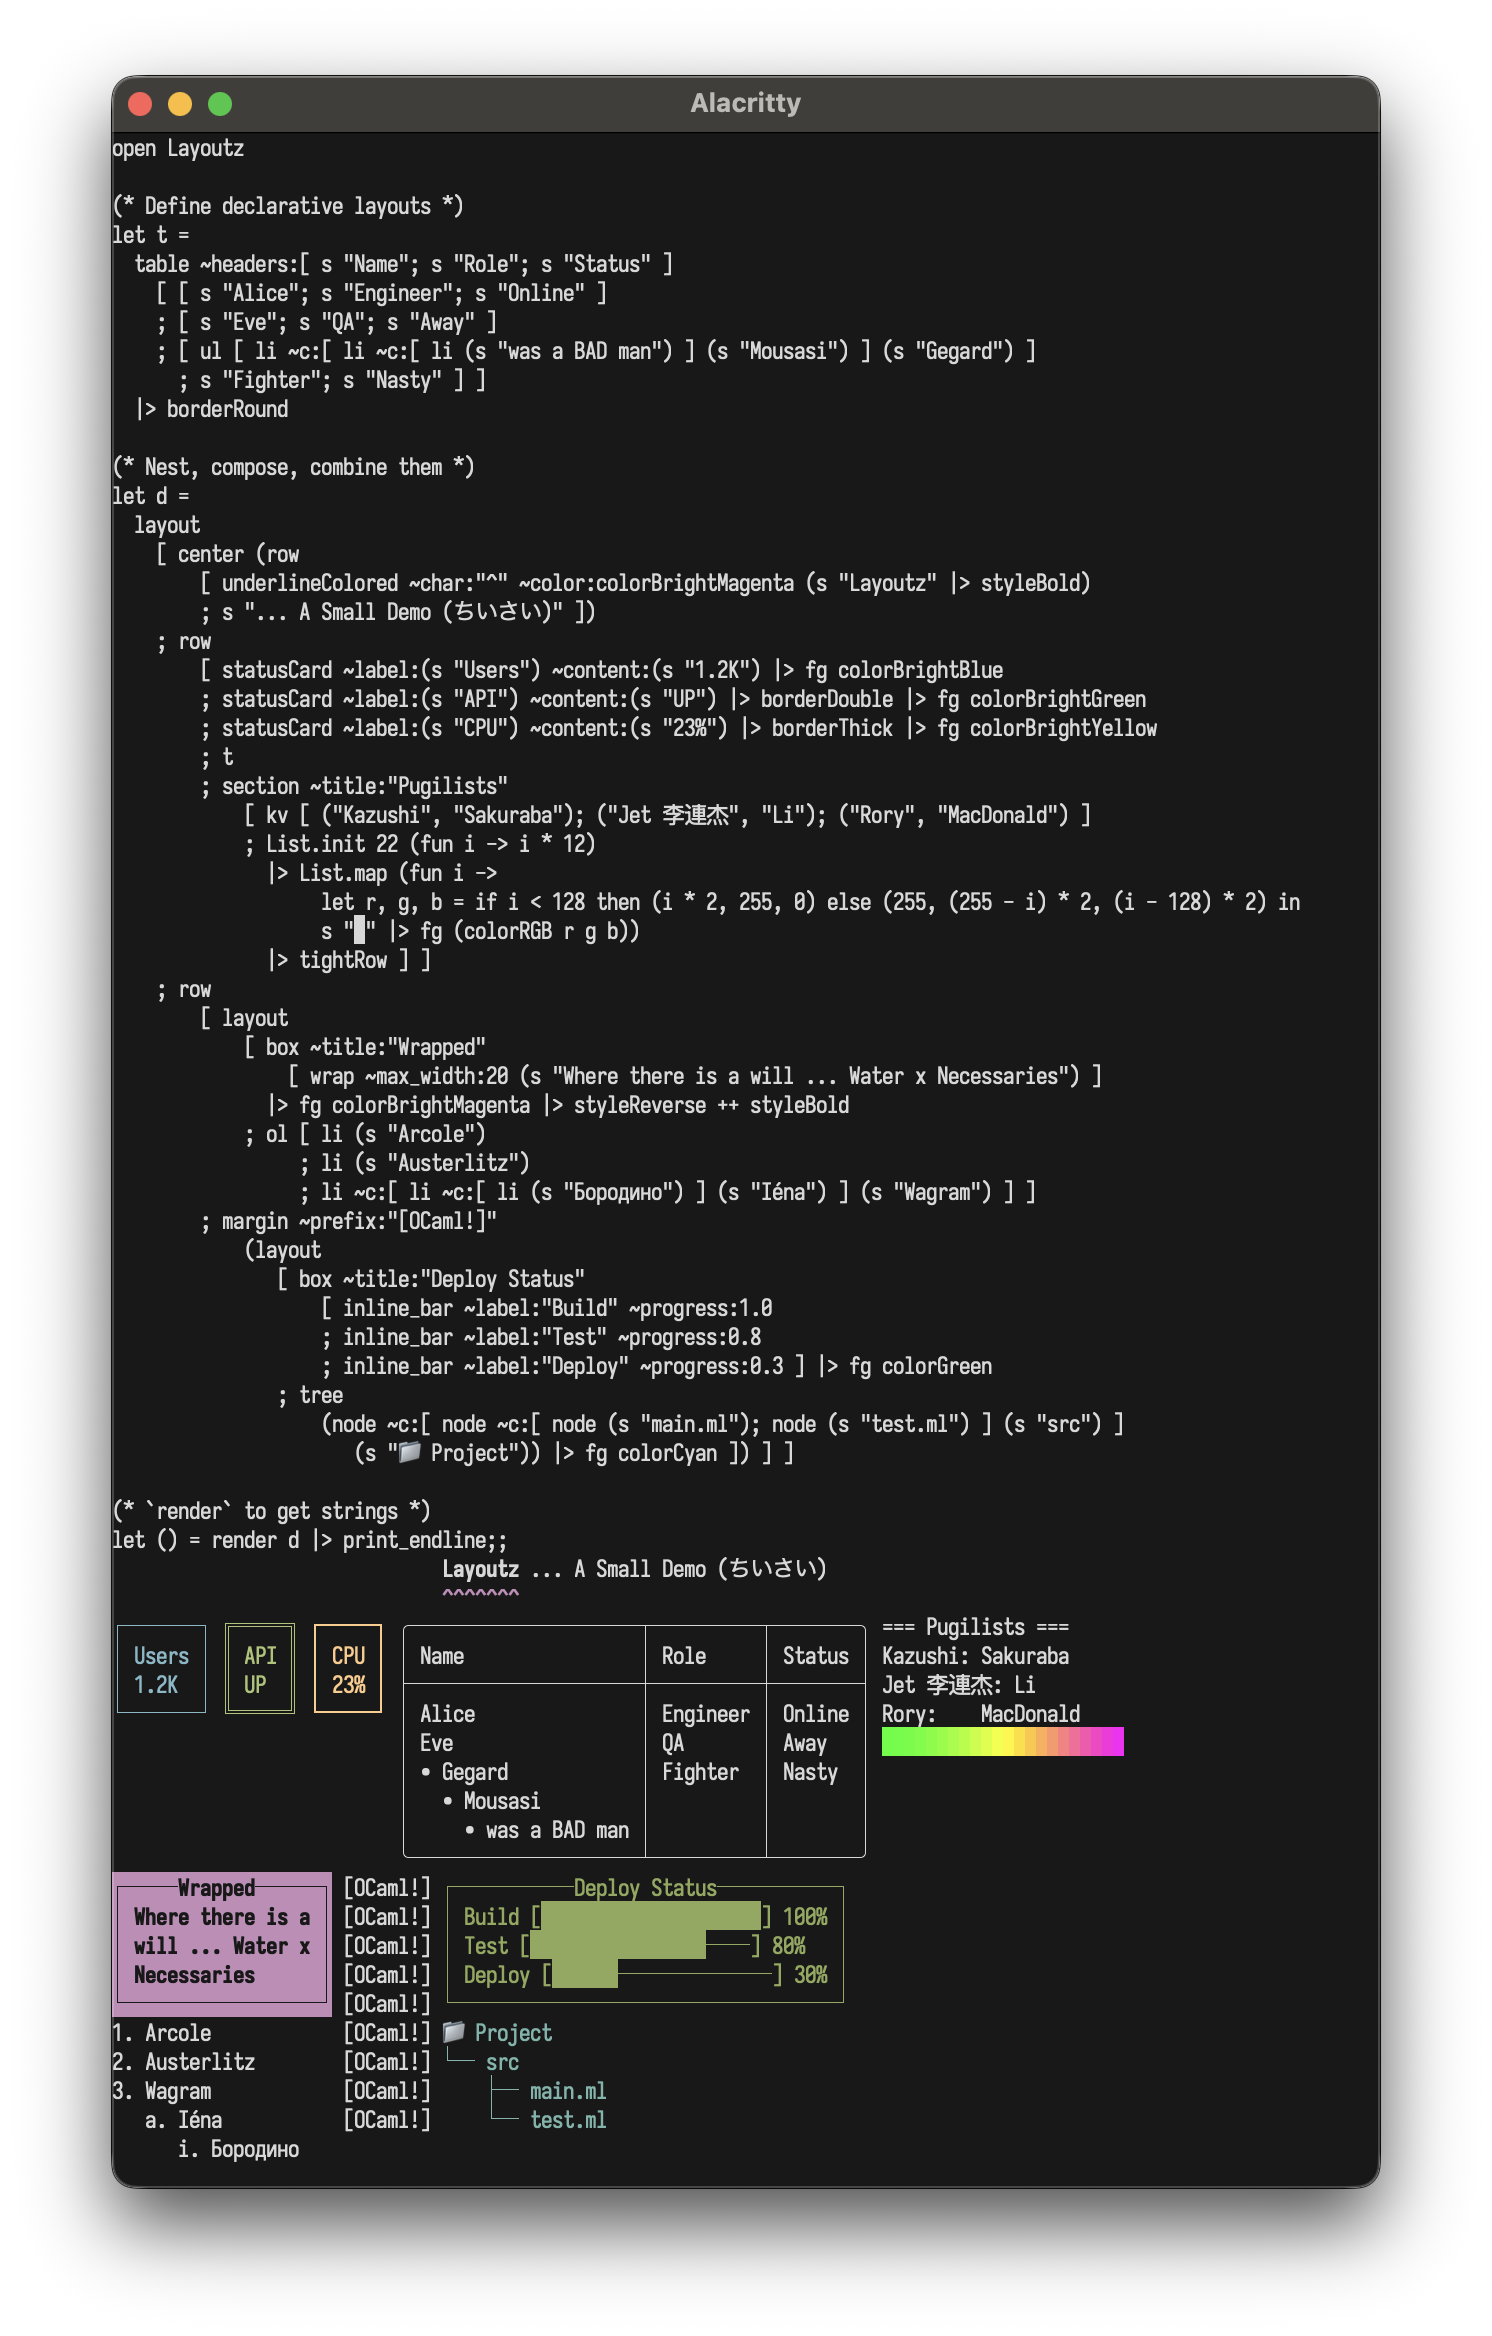
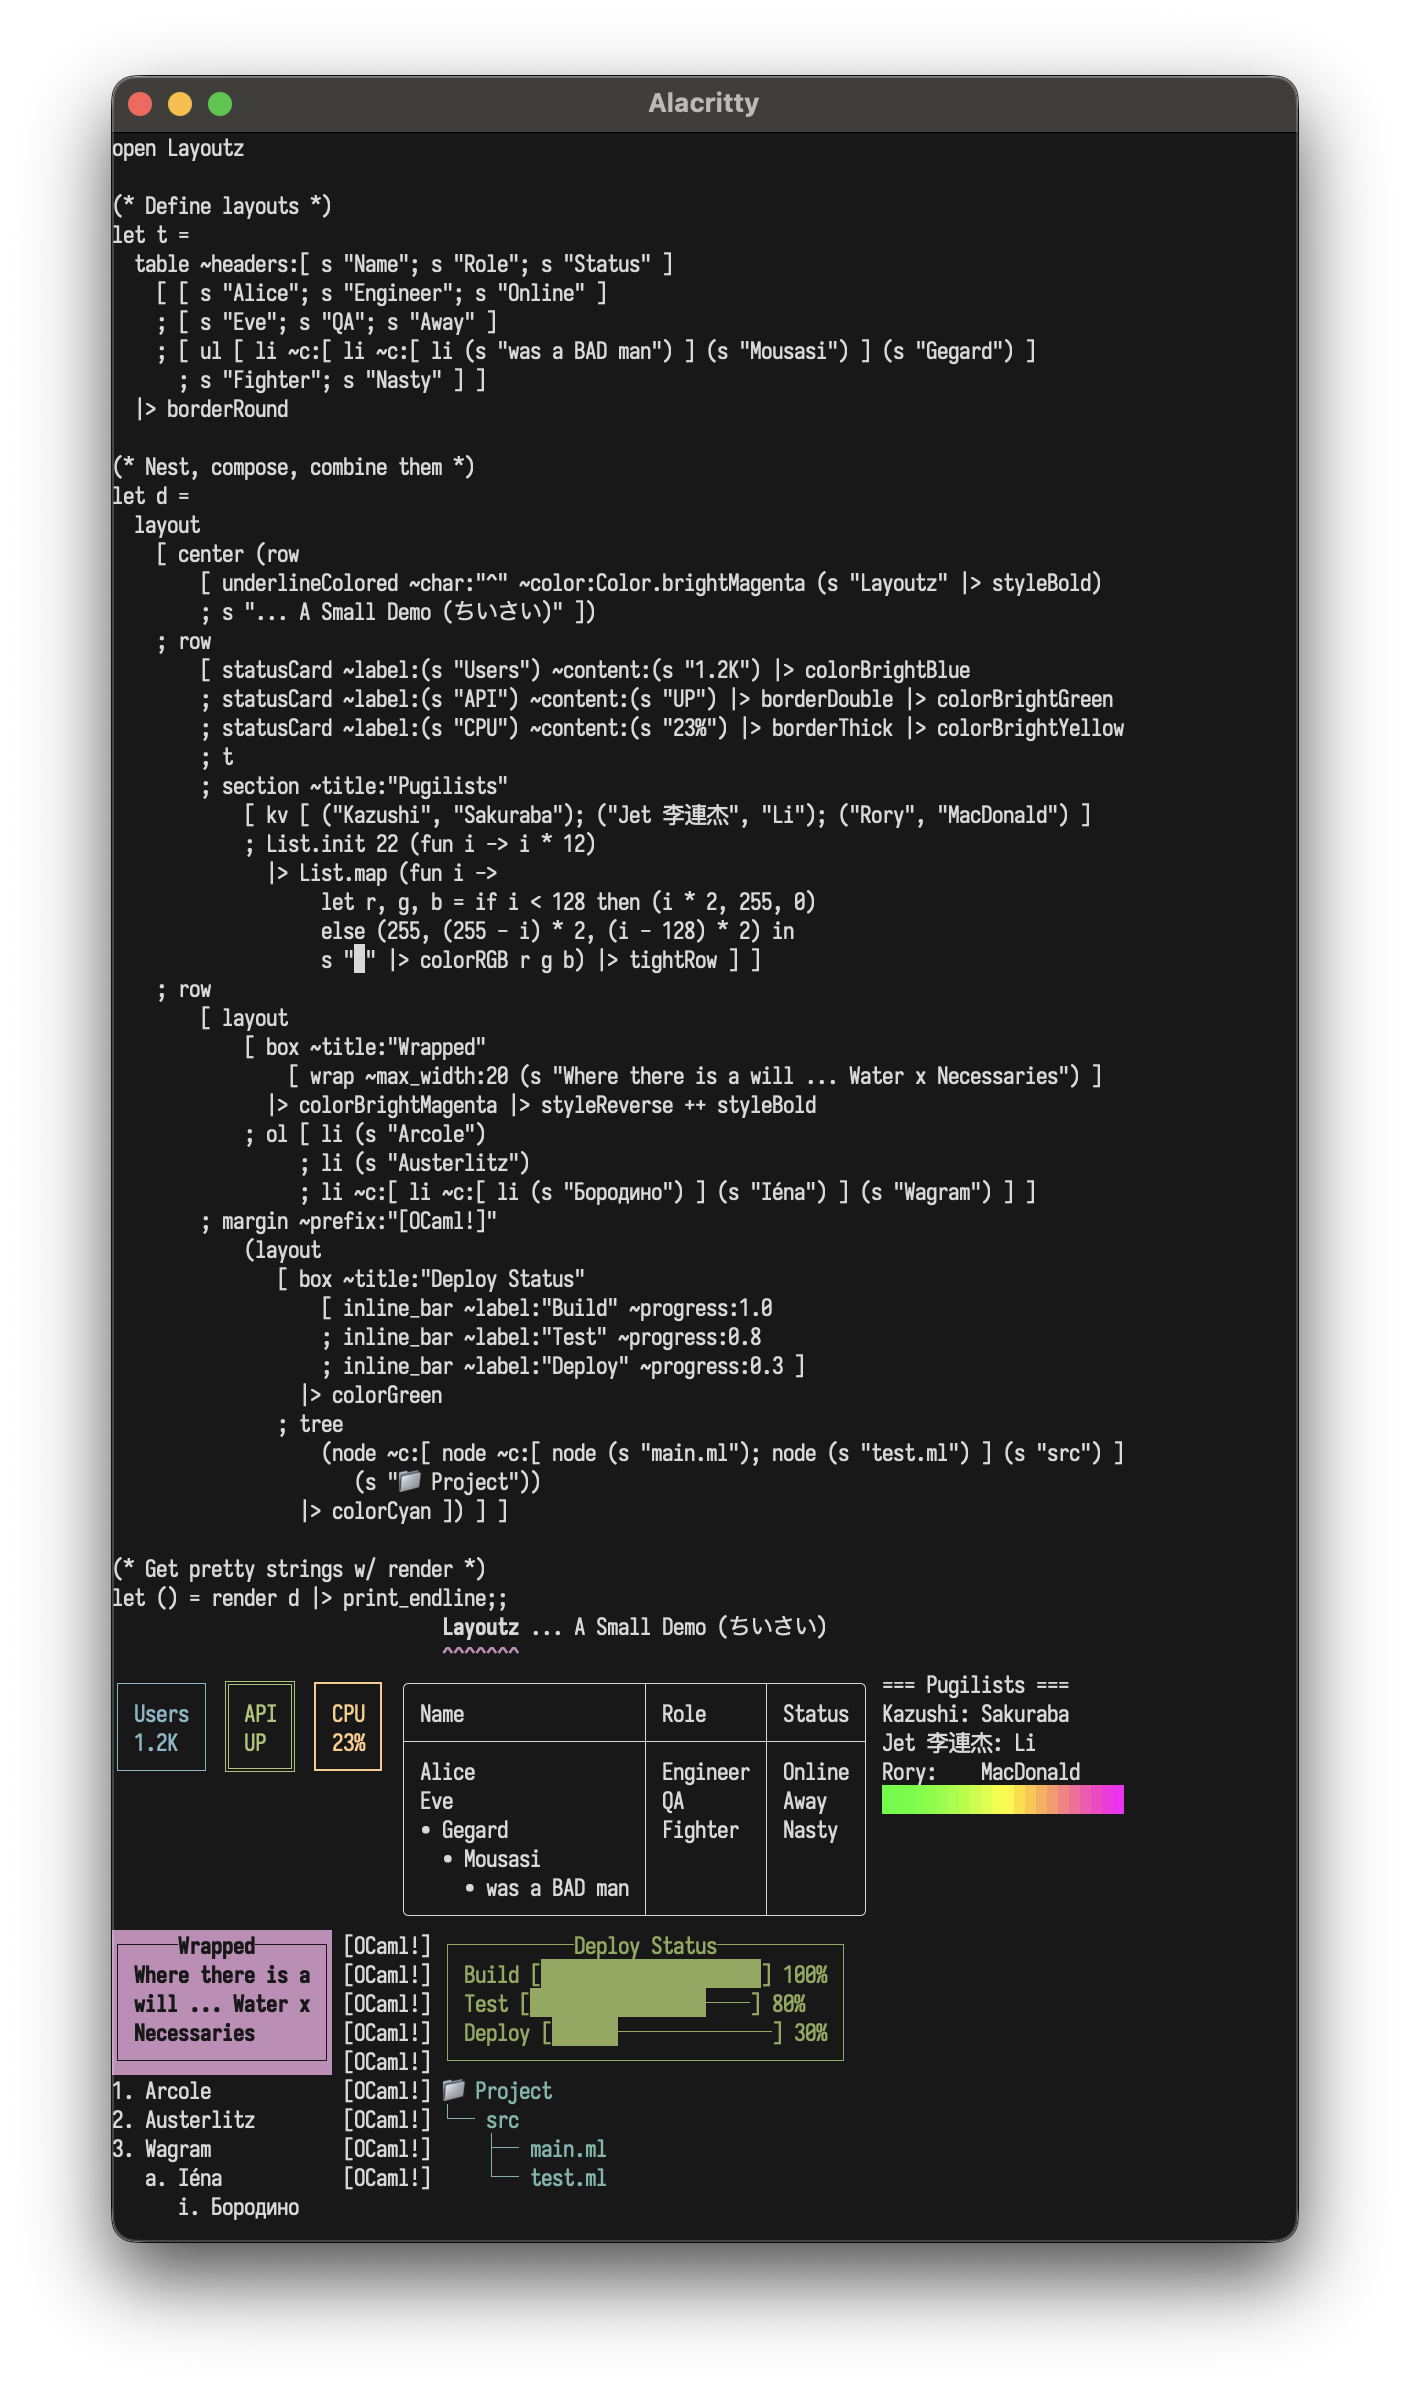
phase out raw fg use + update demos

Changed region(s): [[0.0624, 0.0312, 0.9362, 0.9375], [0.7801, 0.375, 0.8113, 0.4062]]

diff --git a/layoutz-ocaml/README.md b/layoutz-ocaml/README.md
@@ -44,13 +44,13 @@ let demo =
     [ center
         (row
            [ s "Layoutz" |> styleBold
-           ; underlineColored ~char:"^" ~color:colorCyan (s "DEMO")
+           ; underlineColored ~char:"^" ~color:Color.cyan (s "DEMO")
            ])
     ; br
     ; row
         [ statusCard ~label:(s "Users") ~content:(s "1.2K")
         ; statusCard ~label:(s "API") ~content:(s "UP") |> borderDouble
-        ; statusCard ~label:(s "CPU") ~content:(s "23%") |> borderThick |> fg colorRed
+        ; statusCard ~label:(s "CPU") ~content:(s "23%") |> borderThick |> colorRed
         ; table
             ~headers:[ s "Name"; s "Role"; s "Skills" ]
             [ [ s "Gegard"; s "Pugilist"
@@ -114,7 +114,7 @@ Useful for conditional rendering:
 ```ocaml
 layout [
   s "Always shown";
-  (if has_error then s "Error!" |> fg colorRed else empty);
+  (if has_error then s "Error!" |> colorRed else empty);
   s "Footer"
 ]
 ```
@@ -253,8 +253,8 @@ Compact label-value display in a box:
 
 ```ocaml
 row [
-  statusCard ~label:(s "CPU") ~content:(s "45%") |> fg colorGreen;
-  statusCard ~label:(s "MEM") ~content:(s "2.1G") |> fg colorCyan
+  statusCard ~label:(s "CPU") ~content:(s "45%") |> colorGreen;
+  statusCard ~label:(s "MEM") ~content:(s "2.1G") |> colorCyan
 ]
 ```
 ```
@@ -419,7 +419,7 @@ Prefix each line with a string (great for compiler-style output):
 
 ```ocaml
 margin ~prefix:"[info]" (layout [ s "Line 1"; s "Line 2" ])
-marginColor ~prefix:"[error]" ~color:colorRed (s "Something failed")
+marginColor ~prefix:"[error]" ~color:Color.red (s "Something failed")
 ```
 ```
 [info] Line 1
@@ -431,7 +431,7 @@ marginColor ~prefix:"[error]" ~color:colorRed (s "Something failed")
 ```ocaml
 underline (s "Title")
 underline ~char:"=" (s "Double")
-underlineColored ~char:"~" ~color:colorCyan (s "Fancy")
+underlineColored ~char:"~" ~color:Color.cyan (s "Fancy")
 ```
 ```
 Title
@@ -445,15 +445,15 @@ Double
 
 ### Colors
 
-Add ANSI coloring with `|> fg` and `color<...>` to see what is available:
+Colors apply directly via piping - foreground with `color*`, background with `bg*`:
 
 ```ocaml
 let colors =
   layout
-    [ s "The quick brown fox..." |> fg colorRed
-    ; s "The quick brown fox..." |> fg colorBrightCyan
-    ; underlineColored ~char:"~" ~color:colorRed (s "The quick brown fox...")
-    ; marginColor ~prefix:"[INFO]" ~color:colorCyan (s "The quick brown fox...")
+    [ s "The quick brown fox..." |> colorRed
+    ; s "The quick brown fox..." |> colorBrightCyan
+    ; underlineColored ~char:"~" ~color:Color.red (s "The quick brown fox...")
+    ; marginColor ~prefix:"[INFO]" ~color:Color.cyan (s "The quick brown fox...")
     ]
 
 let () = print colors
@@ -463,10 +463,12 @@ let () = print colors
 </p>
 
 **Available Colors:**
-- Standard: `colorBlack`, `colorRed`, `colorGreen`, `colorYellow`, `colorBlue`, `colorMagenta`, `colorCyan`, `colorWhite`
-- Bright: `colorBrightBlack`, `colorBrightRed`, `colorBrightGreen`, `colorBrightCyan`, etc.
-- 256 palette: `color256 201`
-- True color: `colorRGB 255 128 0`
+- Foreground: `colorBlack`, `colorRed`, `colorGreen`, `colorYellow`, `colorBlue`, `colorMagenta`, `colorCyan`, `colorWhite`
+- Bright foreground: `colorBrightBlack`, `colorBrightRed`, `colorBrightGreen`, `colorBrightCyan`, etc.
+- Background: `bgBlack`, `bgRed`, `bgGreen`, `bgYellow`, `bgBlue`, `bgMagenta`, `bgCyan`, `bgWhite`, etc.
+- 256 palette: `color256 201` (foreground), `bg256 201` (background)
+- True color: `colorRGB 255 128 0` (foreground), `bgRGB 255 128 0` (background)
+- Raw values (for `marginColor`, `underlineColored`): `Color.red`, `Color.cyan`, `Color.rgb 255 128 0`, etc.
 
 ### Styles
 
@@ -476,7 +478,7 @@ ANSI styles are added the same way with `|> style<...>`:
 let styles =
   layout
     [ s "The quick brown fox..." |> styleBold
-    ; s "The quick brown fox..." |> fg colorRed |> styleBold
+    ; s "The quick brown fox..." |> colorRed |> styleBold
     ; s "The quick brown fox..." |> styleReverse |> styleItalic
     ]
 
@@ -519,14 +521,14 @@ let () = print combined
 ```ocaml
 (* 256-color palette gradient *)
 let palette =
-  List.init 31 (fun i -> s "█" |> fg (color256 (16 + i * 7)))
+  List.init 31 (fun i -> s "█" |> color256 (16 + i * 7))
   |> tightRow
 
 (* RGB gradients *)
 let red_to_blue =
   List.init 32 (fun i ->
     let v = i * 8 in
-    s "█" |> fg (colorRGB v 100 (255 - v)))
+    s "█" |> colorRGB v 100 (255 - v))
   |> tightRow
 
 let rainbow =
@@ -535,7 +537,7 @@ let rainbow =
     let r = if v < 128 then v * 2 else 255 in
     let g = if v < 128 then 255 else (255 - v) * 2 in
     let b = if v > 128 then (v - 128) * 2 else 0 in
-    s "█" |> fg (colorRGB r g b))
+    s "█" |> colorRGB r g b)
   |> tightRow
 
 let () = print (layout [ palette; red_to_blue; rainbow ])
